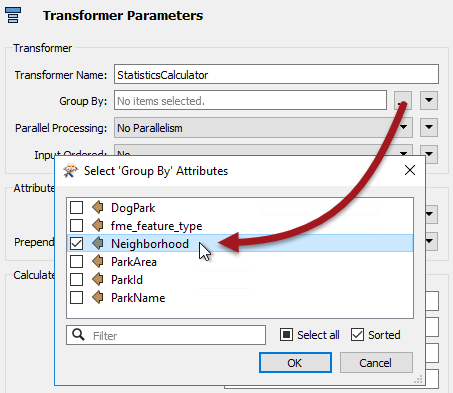
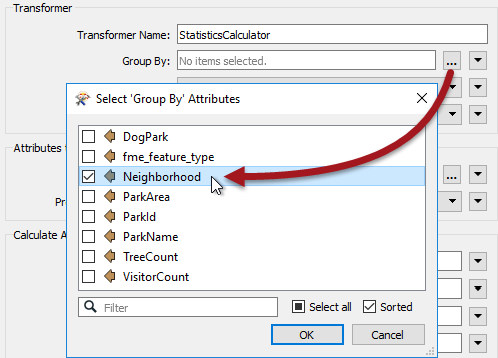
2018 Chapter 2 Exercise 5

diff --git a/DesktopBasic2Transformation/2.Exercise5.md b/DesktopBasic2Transformation/2.Exercise5.md
@@ -51,13 +51,11 @@ The parks team has decided that they do not want the average area of park for th
 
 
 <br>**2) Set Group-By in StatisticsCalculator**
-<br>This is a really simple task to do. View the parameters for the StatisticsCalculator transformer and click the 'browse' button next to the Group By parameter.
-
-Select the attribute called Neighborhood:
+<br>This is a really simple task to do. View the parameters for the StatisticsCalculator transformer and click the 'browse' button next to the Group By parameter. Select the attribute called Neighborhood:
 
 ![](./Images/Img2.236.Ex5.StatsCalcGroupBy.png)
 
-Click OK and apply the changes to the transformer.
+Click OK/Apply to apply the changes to the transformer.
 
 
 <br>**3) Run the Workspace**
